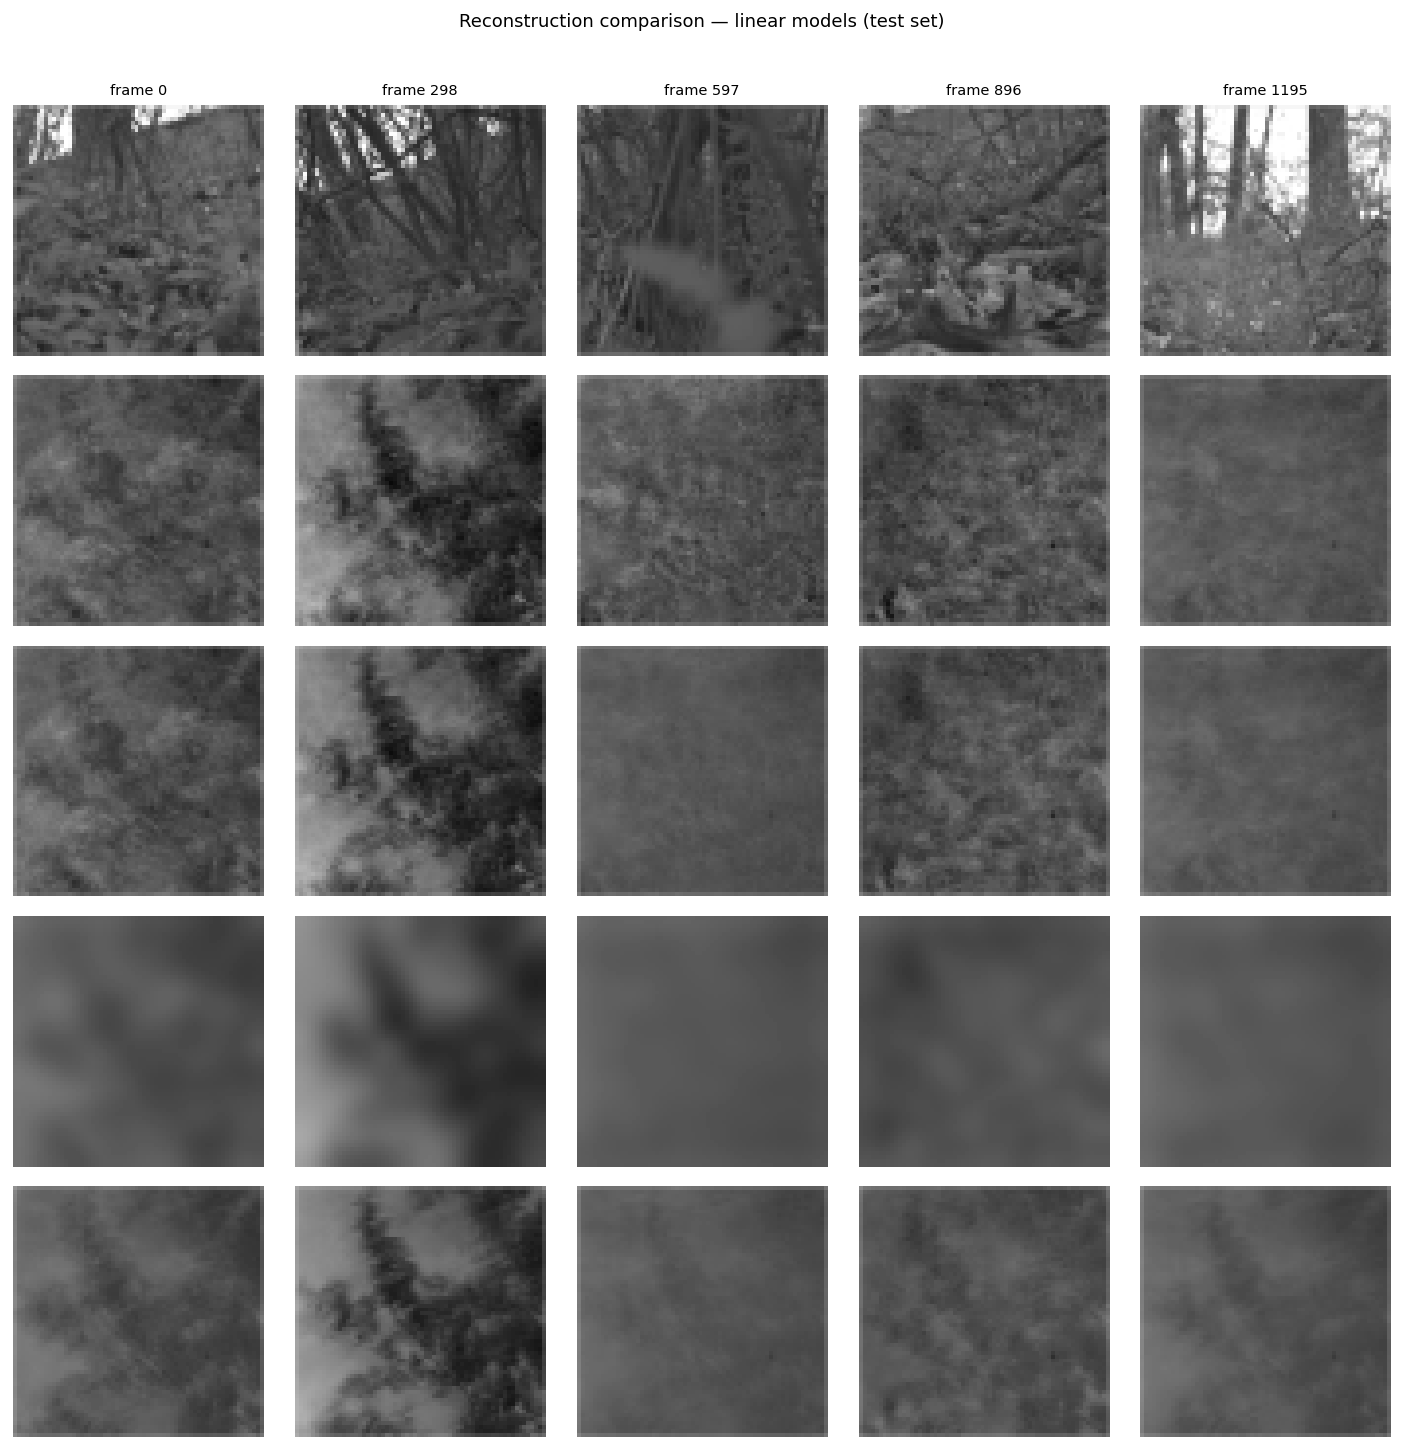
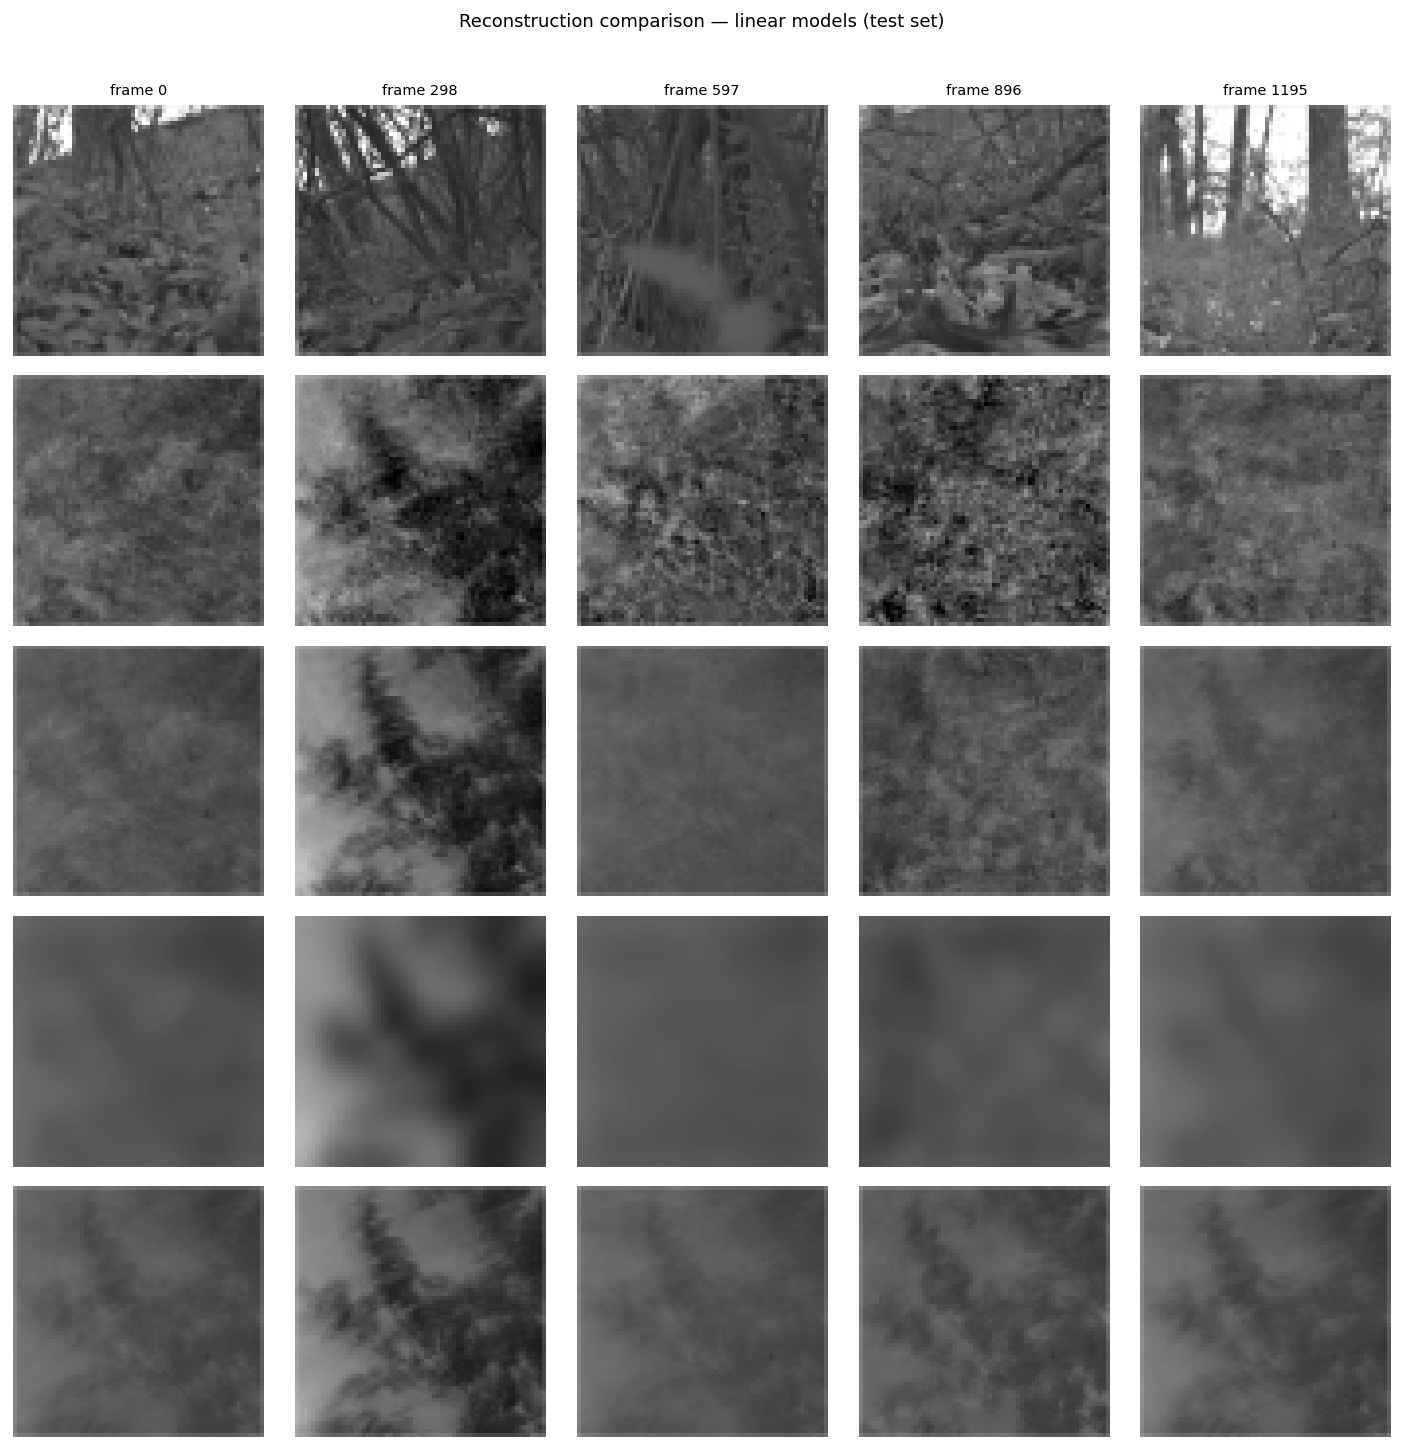
Align Stage 1 linear models with canonical dataset
Point NPZ_DIR to yunyi_data/dataset_npz so OLS/Ridge/Ridge-LP/PCA+Ridge
use the same data as Stage 2/3. Ridge-LP SSIM now 0.2696, consistent
with the main pipeline (resolves the 0.2672 vs 0.2696 discrepancy).

diff --git a/linear_models.py b/linear_models.py
@@ -23,7 +23,7 @@ from scipy.ndimage import gaussian_filter
 # 配置
 # ─────────────────────────────────────────────────────────────
 
-NPZ_DIR    = "./dataset_npz"  # build_dataset.py 的输出目录
+NPZ_DIR    = "./yunyi_data/dataset_npz"  # build_dataset.py 的输出目录（与 Stage 2/3 同源）
 OUT_DIR    = "./linear_results"
 
 LP_SIGMA   = 3       # 低频目标的高斯模糊 σ（像素），64×64 图上 σ=3 效果合理